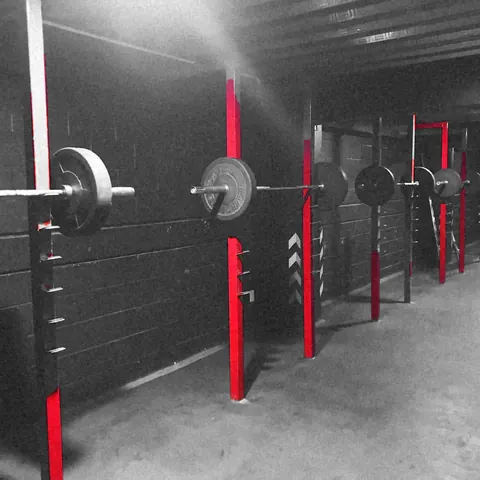
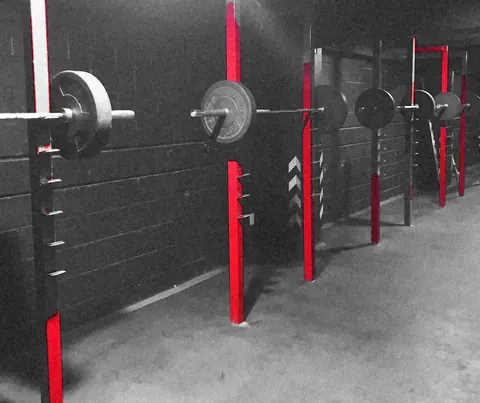
forza-fitness: tercera pasada (cambios del juez final rumbo al 9)

diff --git a/forza-fitness/index.html b/forza-fitness/index.html
@@ -29,14 +29,14 @@
 <link rel="preconnect" href="https://fonts.gstatic.com" crossorigin>
 <link href="https://fonts.googleapis.com/css2?family=Barlow+Condensed:ital,wght@0,600;1,800&amp;family=Barlow+Semi+Condensed:wght@600&amp;family=Barlow:wght@400;600&amp;display=swap" rel="stylesheet">
 <link rel="preload" as="image" href="img/hero-m-960.webp" media="(max-width: 1023px)" type="image/webp" fetchpriority="high">
-<link rel="preload" as="image" href="img/hero-1600.webp" media="(min-width: 1024px)" type="image/webp" fetchpriority="high">
-<link rel="stylesheet" href="site.css?v=1790820920">
-<link rel="stylesheet" href="sections/10-hero.css?v=1790820618">
-<link rel="stylesheet" href="sections/20-planes.css?v=1790820713">
-<link rel="stylesheet" href="sections/30-horario.css?v=1790820744">
-<link rel="stylesheet" href="sections/40-club.css?v=1790820713">
-<link rel="stylesheet" href="sections/50-colosio.css?v=1790820814">
-<link rel="stylesheet" href="sections/60-cierre.css?v=1790820920">
+<link rel="preload" as="image" href="img/hero-d-1600.webp" media="(min-width: 1024px)" type="image/webp" fetchpriority="high">
+<link rel="stylesheet" href="site.css?v=1790821084">
+<link rel="stylesheet" href="sections/10-hero.css?v=1790823676">
+<link rel="stylesheet" href="sections/20-planes.css?v=1790823676">
+<link rel="stylesheet" href="sections/30-horario.css?v=1790823060">
+<link rel="stylesheet" href="sections/40-club.css?v=1790823624">
+<link rel="stylesheet" href="sections/50-colosio.css?v=1790823555">
+<link rel="stylesheet" href="sections/60-cierre.css?v=1790821084">
 <noscript><style>[data-reveal]{opacity:1!important;transform:none!important}</style></noscript>
 </head>
 <body>
@@ -84,7 +84,7 @@
   <div class="fz-hero-photo">
     <picture>
       <source media="(max-width: 1023px)" type="image/webp" srcset="img/hero-m-480.webp 480w, img/hero-m-960.webp 960w, img/hero-m-1600.webp 1600w" sizes="100vw" width="1600" height="1740">
-      <img src="img/hero-1600.webp" srcset="img/hero-960.webp 960w, img/hero-1600.webp 1600w, img/hero-2048.webp 2048w" sizes="(min-width: 1024px) 70vw, 100vw" width="2048" height="1536" alt="Pared con las letras FORZA junto a las hileras de mancuernas de Forza Fitness Club, vistas desde arriba" fetchpriority="high" decoding="async">
+      <img src="img/hero-d-1600.webp" srcset="img/hero-d-960.webp 960w, img/hero-d-1600.webp 1600w, img/hero-d-1930.webp 1930w" sizes="100vw" width="1930" height="831" alt="Pared con las letras FORZA junto a las hileras de mancuernas de Forza Fitness Club, vistas desde arriba" fetchpriority="high" decoding="async">
     </picture>
   </div>
   <div class="fz-wrap fz-hero-in">
@@ -207,7 +207,7 @@
   <div class="fz-club-stage">
     <picture class="fz-club-ph">
       <source media="(max-width: 719px)" type="image/webp" srcset="img/rack-m-480.webp 480w, img/rack-m-960.webp 960w" sizes="100vw">
-      <img src="img/rack-960.webp" srcset="img/rack-480.webp 480w, img/rack-960.webp 960w, img/rack-1600.webp 1600w" sizes="100vw" width="1600" height="1600" alt="Rack de sentadilla con barra y discos en la zona de pesas de Forza" decoding="async">
+      <img src="img/rack-960.webp" srcset="img/rack-480.webp 480w, img/rack-960.webp 960w, img/rack-1600.webp 1600w" sizes="100vw" width="1600" height="1344" alt="Rack de sentadilla con barra y discos en la zona de pesas de Forza" decoding="async">
     </picture>
     <div class="fz-club-in">
       <div class="fz-bolt" id="fz-bolt" aria-hidden="true">
@@ -257,7 +257,7 @@
       <figure class="fz-col-ph" data-reveal>
         <div class="fz-locker fz-col-ph-lk">
           <span class="fz-vent" aria-hidden="true"></span><span class="fz-num">#605 · Adentro</span>
-          <div class="fz-col-ph-c"><img src="img/pasillo-960.webp" srcset="img/pasillo-480.webp 480w, img/pasillo-960.webp 960w" sizes="(min-width: 720px) 34vw, 66vw" width="960" height="1200" alt="Pasillo de Forza con las letras FORZA rojas y blancas en la pared de block y la barra de dominadas" decoding="async"></div>
+          <div class="fz-col-ph-c"><img src="img/pasillo-960.webp" srcset="img/pasillo-480.webp 480w, img/pasillo-960.webp 960w" sizes="(min-width: 720px) 34vw, 54vw" width="960" height="1200" alt="Pasillo de Forza con las letras FORZA rojas y blancas en la pared de block y la barra de dominadas" decoding="async"></div>
         </div>
         <figcaption class="fz-col-ph-cap" aria-hidden="true">Always Forza</figcaption>
       </figure>
@@ -383,9 +383,9 @@
 </script>
 <script src="site.js?v=1790814551" defer></script>
 <script src="sections/20-planes.js?v=1790810756" defer></script>
-<script src="sections/30-horario.js?v=1790820732" defer></script>
-<script src="sections/40-club.js?v=1790821043" defer></script>
-<script src="sections/50-colosio.js?v=1790820814" defer></script>
+<script src="sections/30-horario.js?v=1790821084" defer></script>
+<script src="sections/40-club.js?v=1790821084" defer></script>
+<script src="sections/50-colosio.js?v=1790821084" defer></script>
 <script src="sections/60-cierre.js?v=1790810857" defer></script>
 </body>
 </html>

diff --git a/forza-fitness/sections/10-hero.css b/forza-fitness/sections/10-hero.css
@@ -6,7 +6,7 @@
 .fz-hero-photo img { object-fit: cover; object-position: 30% 60%; }
 .fz-hero-photo::after { content: ""; position: absolute; inset: 0; background: linear-gradient(180deg, rgba(18, 19, 19, 0) 0, rgba(18, 19, 19, 0) 70%, rgba(18, 19, 19, 0.72) 88%, #121313 100%); }
 .fz-h--hero { text-shadow: 0 2px 18px rgba(0, 0, 0, 0.55); }
-.fz-hero-in { position: relative; display: grid; gap: 16px; justify-items: start; margin-top: -58px; padding-bottom: 30px; }
+.fz-hero-in { position: relative; display: grid; gap: 16px; justify-items: start; margin-top: -58px; padding-bottom: 8px; }
 .fz-hero-lk { display: inline-flex; align-items: center; gap: 10px; max-width: 100%; padding: 10px 14px 10px 12px; background: rgba(30, 31, 32, 0.92); border: 1px solid var(--line); border-left: 3px solid var(--red); font: 600 15px / 1.2 var(--f-n); letter-spacing: 0.03em; color: var(--mute); }
 .fz-hero-lk b { font-weight: 600; color: #fff; text-transform: uppercase; letter-spacing: 0.08em; }
 .fz-nw { white-space: nowrap; }
@@ -25,12 +25,13 @@
 }
 @media (min-width: 1024px) {
   .fz-hero { min-height: 100svh; display: flex; align-items: flex-end; }
-  .fz-hero-photo { position: absolute; left: 30%; right: 0; top: 0; width: auto; margin: 0; aspect-ratio: auto; max-height: none; height: 84svh; clip-path: polygon(17% 0, 100% 0, 100% calc(100% - var(--cut)), 0 100%); }
-  /* la foto sube 80 px: las letras FORZA de la pared quedan arriba del titulo, no debajo */
-  .fz-hero-photo img { height: calc(100% + 80px); transform: translateY(-80px); object-position: 30% 50%; }
+  /* la foto empieza en left 0 (sin tercio negro vacio); el paralelogramo se queda con el corte de abajo */
+  .fz-hero-photo { position: absolute; left: 0; right: 0; top: 0; width: auto; margin: 0; aspect-ratio: auto; max-height: none; height: 84svh; clip-path: polygon(0 0, 100% 0, 100% calc(100% - var(--cut)), 0 100%); }
+  /* foto propia de compu (hero-d): recortada de maps-01 desde abajo de la lona, asi la lona en ingles no entra; mandan la pared FORZA, el piso y las mancuernas rojas */
+  .fz-hero-photo img { object-position: 18% 50%; }
   .fz-h--hero .fz-red { text-shadow: 0 0 2px rgba(0, 0, 0, 0.6), 0 2px 22px rgba(0, 0, 0, 0.85); }
-  /* la lona queda de fondo: velo .6 en el primer 40 % */
-  .fz-hero-photo::after { background: linear-gradient(180deg, rgba(18, 19, 19, 0.62) 0, rgba(18, 19, 19, 0.55) 40%, rgba(18, 19, 19, 0.2) 58%, rgba(18, 19, 19, 0.3) 72%, rgba(18, 19, 19, 0.88) 100%); }
+  /* velo lateral + mancha oscura detras del titulo: las letras FORZA de la pared se leen arriba y el titulo lee sobre la pared; abajo se funde al negro */
+  .fz-hero-photo::after { background: radial-gradient(ellipse 62% 50% at 24% 80%, rgba(18, 19, 19, 0.88) 0, rgba(18, 19, 19, 0.6) 55%, rgba(18, 19, 19, 0) 100%), linear-gradient(90deg, rgba(18, 19, 19, 0.78) 0, rgba(18, 19, 19, 0.5) 28%, rgba(18, 19, 19, 0.12) 55%, rgba(18, 19, 19, 0) 72%), linear-gradient(180deg, rgba(18, 19, 19, 0.3) 0, rgba(18, 19, 19, 0) 16%, rgba(18, 19, 19, 0) 66%, rgba(18, 19, 19, 0.88) 100%); }
   .fz-h--hero { font-size: clamp(60px, 8.6vw, 132px); }
   .fz-hero-in { margin-top: 0; padding-top: calc(var(--hdr) + 40px); padding-bottom: 54px; gap: 20px; }
   .fz-hero-lk { font-size: 17px; padding: 12px 18px 12px 14px; }

diff --git a/forza-fitness/sections/30-horario.css b/forza-fitness/sections/30-horario.css
@@ -12,7 +12,7 @@
 
 .fz-board-wrap { margin-top: 26px; }
 .fz-board { margin-inline: -10px; padding: 40px 6px 12px; background: #121313; }
-.fz-tbl-sc { overflow-x: auto; -webkit-overflow-scrolling: touch; }
+.fz-tbl-sc { overflow-x: auto; -webkit-overflow-scrolling: touch; padding: 8px; margin: -8px; }
 .fz-tbl { width: 100%; border-collapse: separate; border-spacing: 2px; table-layout: fixed; }
 .fz-tbl col { width: auto; }
 .fz-dh { padding: 4px 0 7px; font: 600 12px / 1 var(--f-n); letter-spacing: 0.1em; text-transform: uppercase; color: var(--dim); text-align: center; box-shadow: inset 0 -3px 0 rgba(255, 255, 255, 0.1); }
@@ -24,7 +24,9 @@
 .fz-tbl td { padding: 0; height: 46px; }
 .fz-cell { width: 100%; height: 100%; min-height: 46px; display: flex; flex-direction: column; align-items: center; justify-content: center; gap: 1px; padding: 3px 1px; background: var(--graf); border-left: 3px solid var(--red); color: #fff; font: 600 12px / 1.08 var(--f-n); letter-spacing: 0; text-transform: none; transition: background-color 160ms var(--ease-out), transform 160ms var(--ease-out); }
 .fz-cell:active { transform: scale(0.96); }
-.fz-cell.is-next { background: var(--red); border-left-color: #fff; animation: fzPulse 1.2s ease-in-out infinite alternate; }
+/* la proxima clase: fondo rojo pleno y texto blanco al 100 % siempre; lo que late es un halo por fuera */
+.fz-cell.is-next { position: relative; z-index: 2; background: var(--red); border-left-color: #fff; color: #fff; animation: fzHalo 1.2s ease-out infinite; }
+@keyframes fzHalo { from { box-shadow: 0 0 0 0 rgba(226, 10, 20, 0.7); } to { box-shadow: 0 0 0 6px rgba(226, 10, 20, 0); } }
 .fz-cell.is-sel { outline: 2px solid #fff; outline-offset: 1px; background: var(--graf-2); }
 .fz-cell.is-next.is-sel { background: var(--red); }
 td.fz-off { background: repeating-linear-gradient(-8deg, rgba(255, 255, 255, 0.05) 0 1px, transparent 1px 7px); }

diff --git a/forza-fitness/sections/40-club.css b/forza-fitness/sections/40-club.css
@@ -3,9 +3,9 @@
 .fz-div { margin-top: 0; margin-bottom: 6px; }
 .fz-club-stage { position: relative; min-height: 78svh; display: grid; place-items: center; overflow: hidden; background: #121313; clip-path: polygon(0 var(--cut), 100% 0, 100% calc(100% - var(--cut)), 0 100%); }
 .fz-club-ph, .fz-club-ph img { position: absolute; inset: 0; width: 100%; height: 100%; }
-.fz-club-ph img { object-fit: cover; object-position: 38% 50%; }
-/* Velo en degradado: claro arriba (se ven discos y columnas rojas), oscuro solo detras del titular */
-.fz-club-stage::after { content: ""; position: absolute; inset: 0; background: linear-gradient(180deg, rgba(18, 19, 19, 0.35) 0, rgba(18, 19, 19, 0.22) 30%, rgba(18, 19, 19, 0.5) 52%, rgba(18, 19, 19, 0.8) 70%, rgba(18, 19, 19, 0.82) 100%); }
+.fz-club-ph img { object-fit: cover; object-position: 38% 27%; }
+/* Velo en degradado: la foto ya viene sin la franja de neblina de arriba (rack recortado desde el 16 %); el velo de arriba sube a .55 para que el rayo pegue sobre barra, discos y columnas rojas; oscuro detras del titular */
+.fz-club-stage::after { content: ""; position: absolute; inset: 0; background: linear-gradient(180deg, rgba(18, 19, 19, 0.55) 0, rgba(18, 19, 19, 0.32) 16%, rgba(18, 19, 19, 0.22) 30%, rgba(18, 19, 19, 0.5) 52%, rgba(18, 19, 19, 0.8) 70%, rgba(18, 19, 19, 0.82) 100%); }
 .fz-club-in { position: relative; z-index: 2; display: grid; justify-items: center; gap: 14px; padding: calc(var(--cut) + 20px) var(--gut); text-align: center; }
 .fz-bolt { position: relative; width: min(54vw, 240px); aspect-ratio: 650 / 640; filter: drop-shadow(0 0 16px rgba(226, 10, 20, 0.42)) drop-shadow(0 2px 10px rgba(0, 0, 0, 0.6)); }
 .fz-bolt svg { position: absolute; inset: 0; width: 100%; height: 100%; }

diff --git a/forza-fitness/sections/50-colosio.css b/forza-fitness/sections/50-colosio.css
@@ -1,8 +1,9 @@
 /* 50-colosio: ficha de llegada. Horario real, estado en vivo, mapa en casillero */
 .fz-colosio .fz-h { padding-top: 4px; }
 .fz-col-grid { display: grid; gap: 20px; margin-top: 26px; }
-/* pasillo: la original es de celular, asi que no va a sangre: casillero con marco, 4:5, en paralelogramo a 8 grados */
-.fz-col-ph { margin: 0; display: grid; grid-template-columns: 70% 1fr; align-items: end; gap: 0 12px; }
+/* pasillo: la original es de celular (1,100 px de ancho), asi que no va a sangre: casillero con marco, 4:5, en paralelogramo a 8 grados.
+   En celular, 58 % del ancho: asi sale nitida a 2x sin reescalar con IA. El par foto + lema va centrado */
+.fz-col-ph { margin: 0; display: grid; grid-template-columns: 58% auto; justify-content: center; align-items: end; gap: 0 16px; }
 .fz-col-ph-lk { padding: 34px 8px 8px; }
 .fz-col-ph-c { aspect-ratio: 4 / 5; overflow: hidden; background: #121313; clip-path: polygon(7% 0, 100% 0, 93% 100%, 0 100%); }
 .fz-col-ph-c img { width: 100%; height: 100%; object-fit: cover; object-position: 30% 50%; }

diff --git a/forza-fitness/sections/50-colosio.html b/forza-fitness/sections/50-colosio.html
@@ -6,7 +6,7 @@
       <figure class="fz-col-ph" data-reveal>
         <div class="fz-locker fz-col-ph-lk">
           <span class="fz-vent" aria-hidden="true"></span><span class="fz-num">#605 · Adentro</span>
-          <div class="fz-col-ph-c"><img src="img/pasillo-960.webp" srcset="img/pasillo-480.webp 480w, img/pasillo-960.webp 960w" sizes="(min-width: 720px) 34vw, 66vw" width="960" height="1200" alt="Pasillo de Forza con las letras FORZA rojas y blancas en la pared de block y la barra de dominadas" decoding="async"></div>
+          <div class="fz-col-ph-c"><img src="img/pasillo-960.webp" srcset="img/pasillo-480.webp 480w, img/pasillo-960.webp 960w" sizes="(min-width: 720px) 34vw, 54vw" width="960" height="1200" alt="Pasillo de Forza con las letras FORZA rojas y blancas en la pared de block y la barra de dominadas" decoding="async"></div>
         </div>
         <figcaption class="fz-col-ph-cap" aria-hidden="true">Always Forza</figcaption>
       </figure>

diff --git a/forza-fitness/sections/10-hero.html b/forza-fitness/sections/10-hero.html
@@ -2,7 +2,7 @@
   <div class="fz-hero-photo">
     <picture>
       <source media="(max-width: 1023px)" type="image/webp" srcset="img/hero-m-480.webp 480w, img/hero-m-960.webp 960w, img/hero-m-1600.webp 1600w" sizes="100vw" width="1600" height="1740">
-      <img src="img/hero-1600.webp" srcset="img/hero-960.webp 960w, img/hero-1600.webp 1600w, img/hero-2048.webp 2048w" sizes="(min-width: 1024px) 70vw, 100vw" width="2048" height="1536" alt="Pared con las letras FORZA junto a las hileras de mancuernas de Forza Fitness Club, vistas desde arriba" fetchpriority="high" decoding="async">
+      <img src="img/hero-d-1600.webp" srcset="img/hero-d-960.webp 960w, img/hero-d-1600.webp 1600w, img/hero-d-1930.webp 1930w" sizes="100vw" width="1930" height="831" alt="Pared con las letras FORZA junto a las hileras de mancuernas de Forza Fitness Club, vistas desde arriba" fetchpriority="high" decoding="async">
     </picture>
   </div>
   <div class="fz-wrap fz-hero-in">

diff --git a/forza-fitness/sections/20-planes.css b/forza-fitness/sections/20-planes.css
@@ -1,5 +1,6 @@
 /* 20-planes: tres casilleros con precio real; debajo, lo que trae el club en tipografia */
-.fz-planes { position: relative; isolation: isolate; padding: 40px 0 34px; }
+/* celular: sin padding arriba, el arte Reloaded entra pegado al link del hero (sin hueco negro en el primer scroll) */
+.fz-planes { position: relative; isolation: isolate; padding: 0 0 34px; }
 /* Arte Reloaded completo (RELOADED entero), en flujo: no pasa de 55svh y el titulo se le monta abajo */
 .fz-planes-art { position: relative; z-index: -1; width: 100%; aspect-ratio: 2048 / 1367; max-height: 55svh; opacity: 0.8; -webkit-mask-image: linear-gradient(180deg, transparent 0, #000 14%, #000 66%, transparent 100%); mask-image: linear-gradient(180deg, transparent 0, #000 14%, #000 66%, transparent 100%); }
 .fz-planes-art img { width: 100%; height: 100%; object-fit: cover; object-position: 50% 40%; }

diff --git a/forza-fitness/template.html b/forza-fitness/template.html
@@ -29,7 +29,7 @@
 <link rel="preconnect" href="https://fonts.gstatic.com" crossorigin>
 <link href="https://fonts.googleapis.com/css2?family=Barlow+Condensed:ital,wght@0,600;1,800&amp;family=Barlow+Semi+Condensed:wght@600&amp;family=Barlow:wght@400;600&amp;display=swap" rel="stylesheet">
 <link rel="preload" as="image" href="img/hero-m-960.webp" media="(max-width: 1023px)" type="image/webp" fetchpriority="high">
-<link rel="preload" as="image" href="img/hero-1600.webp" media="(min-width: 1024px)" type="image/webp" fetchpriority="high">
+<link rel="preload" as="image" href="img/hero-d-1600.webp" media="(min-width: 1024px)" type="image/webp" fetchpriority="high">
 <link rel="stylesheet" href="site.css">
 <!--SECTION_CSS-->
 <noscript><style>[data-reveal]{opacity:1!important;transform:none!important}</style></noscript>

diff --git a/forza-fitness/sections/40-club.html b/forza-fitness/sections/40-club.html
@@ -3,7 +3,7 @@
   <div class="fz-club-stage">
     <picture class="fz-club-ph">
       <source media="(max-width: 719px)" type="image/webp" srcset="img/rack-m-480.webp 480w, img/rack-m-960.webp 960w" sizes="100vw">
-      <img src="img/rack-960.webp" srcset="img/rack-480.webp 480w, img/rack-960.webp 960w, img/rack-1600.webp 1600w" sizes="100vw" width="1600" height="1600" alt="Rack de sentadilla con barra y discos en la zona de pesas de Forza" decoding="async">
+      <img src="img/rack-960.webp" srcset="img/rack-480.webp 480w, img/rack-960.webp 960w, img/rack-1600.webp 1600w" sizes="100vw" width="1600" height="1344" alt="Rack de sentadilla con barra y discos en la zona de pesas de Forza" decoding="async">
     </picture>
     <div class="fz-club-in">
       <div class="fz-bolt" id="fz-bolt" aria-hidden="true">

diff --git a/forza-fitness/CORRECCION-3.md b/forza-fitness/CORRECCION-3.md
@@ -1,0 +1,31 @@
+# Forza Fitness Club · Corrección 3 (30 sep 2026)
+
+Se aplicaron los 5 cambios de REVISION-3, en orden. Solo se editó `sections/`, `template.html`, `img/` e `IMAGENES.md`, y se armó con `python3 build.py` después de cada cambio (index.html no se tocó a mano). Respaldo de lo anterior y scripts en `scratchpad/r3fix-forza-fitness/` (`backup/`, `imgs3.py`, `grade.py`, `q.mjs`). Las 3 fotos viejas del hero de compu quedaron en `scratchpad/r3fix-forza-fitness/img-retiradas/`.
+
+## Aplicado
+1. **Pulso de la próxima clase** (`30-horario.css`): la celda `.is-next` ya no usa `fzPulse` (no baja opacidad). Fondo rojo pleno y texto blanco al 100 % todo el tiempo; lo que late es un halo `box-shadow` de 0 a 6 px que se desvanece (1.2 s). La celda va con `z-index` para que el halo pase encima de las vecinas, y el contenedor con scroll de la tabla ganó 8 px de aire (con margen negativo, así la tabla no se mueve) para que el halo no se recorte en las orillas. Con reduced-motion sigue quieta. Verificado en 3 fases de la animación: "Luis Fer" blanco y legible en todas.
+2. **Hero de compu (≥1024)** (`10-hero.css`, `10-hero.html`, `template.html`):
+   - La foto empieza en `left: 0`, con el paralelogramo `polygon(0 0, 100% 0, 100% calc(100% - var(--cut)), 0 100%)`. Ya no hay tercio negro vacío.
+   - La lona: el `translateY(-200px)` probado no alcanzaba (seguían "MADE OF" y "Come to beat yourself" arriba), así que se usó la variante que la revisión deja: foto propia de compu `hero-d-960/1600/1930` recortada de maps-01 limpio desde y = 705 (abajo de la lona) y hasta x = 1930 (sin el reloj de pared), con la misma serie B/N y rojo. La lona ya no entra en ninguna pantalla de compu (probado a 1024, 1440 y 1920). Mandan la pared FORZA, el piso y las hileras de mancuernas rojas.
+   - Velo: el lateral de la revisión (negro pleno a .85 en el 28 %) dejaba las letras FORZA de la pared casi invisibles. Se usó la variante que cumple la intención: velo lateral .78 → .5 (28 %) → .12 (55 %) → 0, más una mancha oscura elíptica detrás del título y el fundido a negro de abajo. Resultado: "FORZA" de la pared se lee arriba a la izquierda y el título lee limpio sobre la pared. "RESULTADOS." ya no se monta en ningún filo.
+3. **Pasillo sin Real-ESRGAN** (`img/pasillo-*`, `50-colosio.css`, `50-colosio.html`): regenerado desde `research/fotos/maps-02.jpg`, mismo recorte (x 0 a 1100, y 520 a 1895), denoise muy suave, serie B/N con rojo y grano, y solo Lanczos hacia abajo (960 y 480). Las letras y el block se ven de foto, ya no pintados. En celular la foto mide 58 % del ancho (unos 208 px) y el par foto + "ALWAYS FORZA" va centrado; `sizes` ajustado a 54vw. En compu sigue en su columna 4:5.
+4. **Neblina del rack** (`img/rack-*`, `img/rack-m-*`, `40-club.css`, `40-club.html`): rack regenerado desde maps-04 sin el 16 % de arriba (la franja del destello y la neblina gris), mismo tratamiento. Además, el velo de arriba de la escena sube de .35 a .55 (con .32 al 16 %). En compu se ajustó `object-position: 38% 27%` para mostrar el mismo encuadre que antes. El rayo queda sobre barra, discos y columnas rojas, sin humo.
+5. **Hueco del hero en celular** (`10-hero.css`, `20-planes.css`): `padding-bottom` del hero a 8 px y `.fz-planes` a `padding-top: 0` en celular (desde 720 px se queda en 56). El arte Reloaded entra pegado al link "Ver horario de CrossFit".
+
+## No aplicado o distinto
+- Cambio 2, `translateY(-200px)`: se probó y no sacaba la lona. Se aplicó la variante de la misma revisión (regenerar la foto de compu recortando la lona).
+- Cambio 2, velo lateral literal: apagaba la pared FORZA. Se dejó un velo más ligero arriba y oscuro detrás del título (ver arriba).
+- Cambio 4: se hicieron las dos cosas (recorte y velo), porque el recorte del 12 % dejaba una cola de neblina.
+- La hoja de dirección pedía el pulso de la celda por opacidad (1 ↔ .6). Se cambió por halo porque así lo pide el juez y la intención (que la celda pulse) se conserva sin apagar el texto.
+- No se tocó: el tablero ni sus datos, el flujo a WhatsApp, el header y su barra de carga, la paleta, las fuentes, las reseñas, precios, horarios, teléfono, "Todo listo para completar", "ALWAYS FORZA", og.jpg y los 4 verdes.
+
+## Verificación
+- krevo-shot `m`: alto 8,043 px (tope 9,000), 4 WhatsApp, 0 alertas, sin errores de consola, sin 404, sin scroll horizontal.
+- krevo-shot `d`: alto 7,449 px, 4 WhatsApp, 0 alertas.
+- 820 px: 7,843 px, sin scroll horizontal. 1024 y 1920: hero sin lona y sin vacío.
+- Flujo (Plan Gold + CrossFit mié 6:00 pm), igual en el menú, `#fz-send`, `#fz-send2` y el flotante, todos `<a href="https://wa.me/...">` en verde:
+  `https://wa.me/524491538877?text=Hola Forza Fitness Club, quiero pedir mi inscripción. Me interesa el Plan Gold (desde $999.90 al mes). Clase: CrossFit mié 6:00 pm con Diego Sánchez.`
+- Hojas: `scratchpad/r3fix-forza-fitness/hoja-celular.jpg`, `hoja-compu.jpg` y `hoja-820.jpg`; halo en 3 fases: `halo.png`.
+
+## Lo que sigue limitando la nota
+Igual que dice la revisión: no hay fotos de gente entrenando, fachada, coaches ni guardería. Eso solo lo resuelve material del dueño.

diff --git a/forza-fitness/IMAGENES.md b/forza-fitness/IMAGENES.md
@@ -1,4 +1,17 @@
-# Forza Fitness Club · Imágenes (30 sep 2026, corrección 2)
+# Forza Fitness Club · Imágenes (30 sep 2026, corrección 3)
+
+**Corrección 3:** mismas reglas de la serie de marca (B/N con curva en S, rojo de verdad conservado, grano 3.2 %). Script: `scratchpad/r3fix-forza-fitness/imgs3.py` (usa `grade.py`). Solo PIL y OpenCV; en esta vuelta NO se usó Real-ESRGAN.
+
+| Archivo en img/ (corrección 3) | Origen | Proceso | Dónde va |
+|---|---|---|---|
+| hero-d-960/1600/1930.webp (1930x831) | maps-01 limpio, recorte x 0-1930, y 705-1536 (sin la lona en inglés y sin el reloj) | serie B/N + rojo (rojo solo debajo de y = 1050; trapo del piso excluido); 1930 a tamaño nativo, 1600 y 960 con Lanczos | Hero compu (≥1024), a todo lo ancho con velo lateral. Reemplaza a hero-960/1600/2048 (retiradas) |
+| pasillo-480/960.webp (960x1200) | maps-02, recorte x 0-1100, y 520-1895 | SIN Real-ESRGAN: denoise suave, gamma .6, serie B/N + rojo, Lanczos hacia abajo | Colosio; en celular al 58 % del ancho |
+| rack-480/960/1600.webp (1600x1344), rack-m-480/960.webp | maps-04 sin el 16 % de arriba (destello y neblina) | denoise, gamma .55, serie B/N + rojo de las columnas | Club (rayo) |
+
+Sin cambios en esta vuelta: hero-m, fierro, funcional, reloaded, og, favicon.
+
+Historial (corrección 2):
+
 
 **Serie de marca (corrección 2):** todas las fotos del gimnasio llevan el mismo tratamiento, como su cartel Reloaded: blanco y negro con curva en S (+15 a 18 % de contraste en medios), grano fino de 3.2 % (puesto después de reducir a cada ancho) y **solo el rojo de verdad conservado** (mancuernas, columnas del rack, letras y barra del pasillo, la palabra FORZA de la caja). El rojo se detecta en la foto ANTES de aclararla (tono 338° a 18°, saturación > 0.34 a 0.42, G < 0.5 a 0.68·R según la foto), se limpia con apertura morfológica y se descartan islas chicas, y se suaviza el borde. En maps-01 el rojo solo cuenta debajo de y = 1050 (así la lona coral, el cartel de frutas y el short rojo de un socio quedan grises) y se excluye a mano un trapo rojo del piso. Scripts: `scratchpad/r2fix-forza-fitness/grade.py` + `imgs2.py`. Solo PIL, OpenCV y Real-ESRGAN x4 (sin IA generativa).
 
